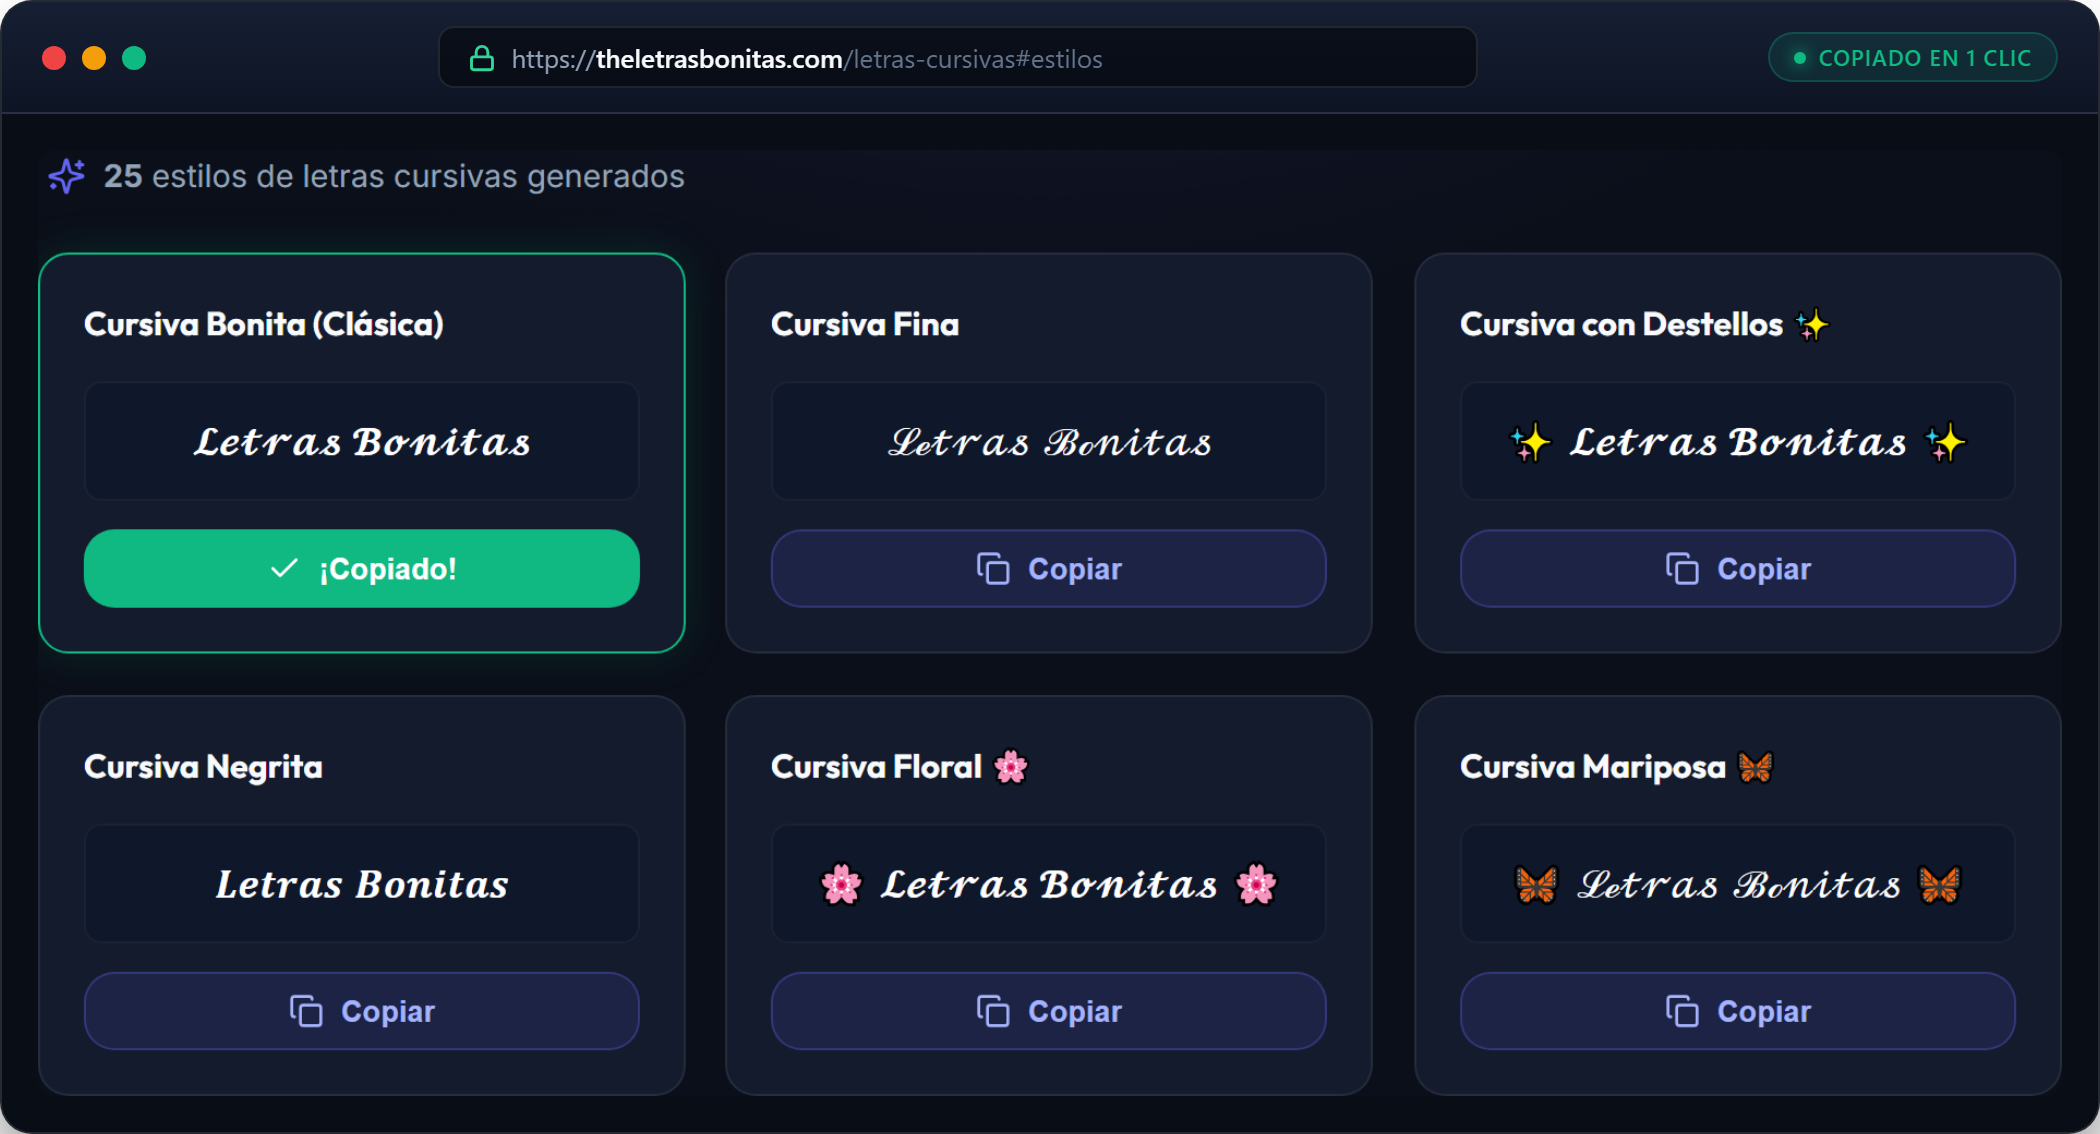
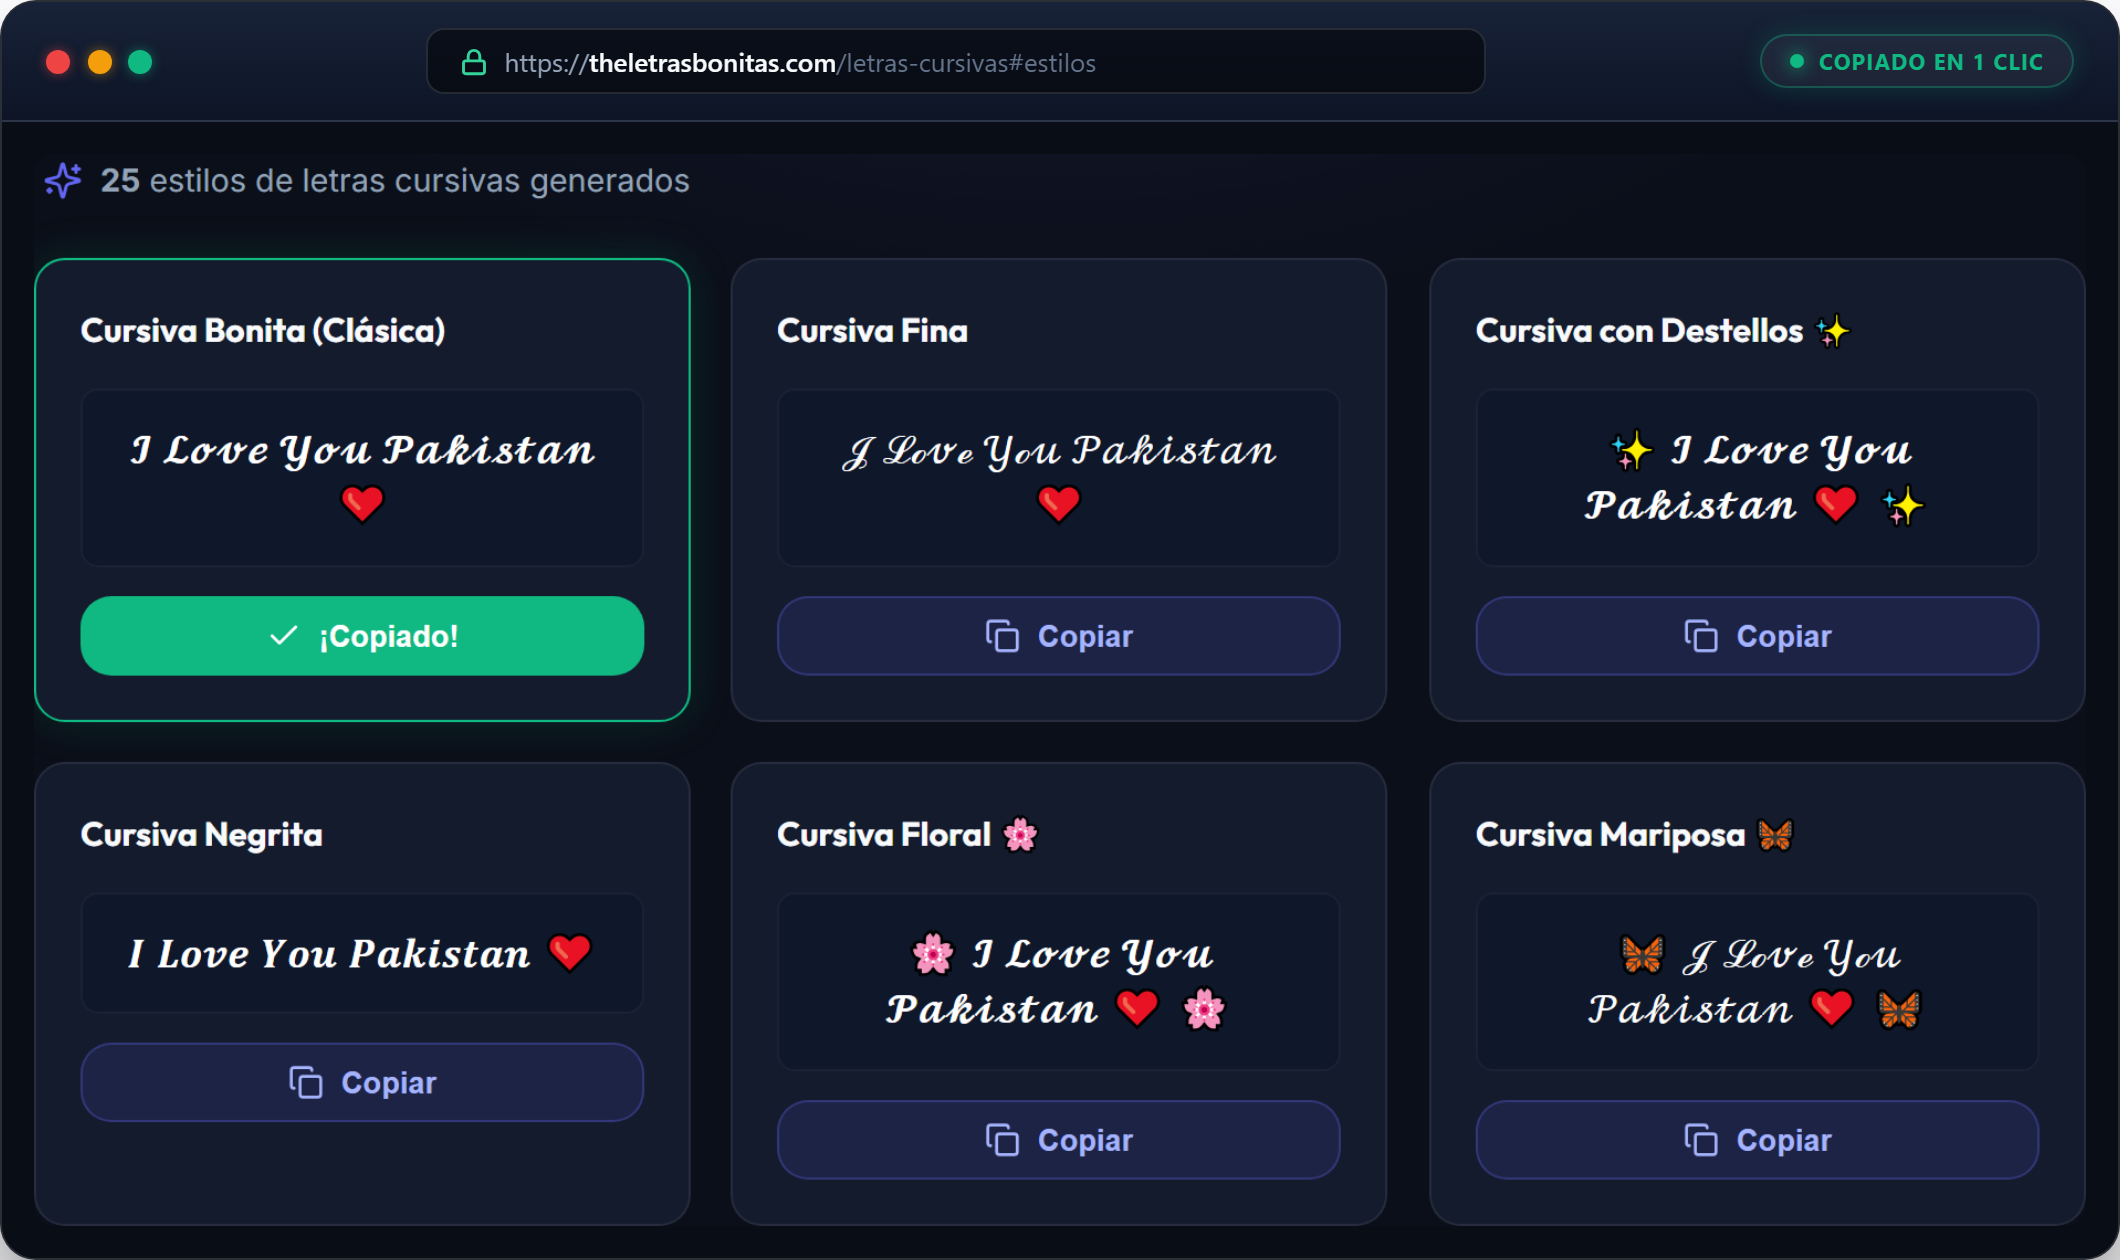
feat(seo): add attractive custom text screenshots to conversor-de-letras and update letras-cursivas

diff --git a/src/app/conversor-de-letras/page.tsx b/src/app/conversor-de-letras/page.tsx
@@ -1,5 +1,6 @@
 import React from 'react';
 import type { Metadata } from 'next';
+import Image from 'next/image';
 import Link from 'next/link';
 import LetterConverter from '@/components/letter-converter/LetterConverter';
 import PopularStylesSection from '@/components/letter-converter/PopularStylesSection';
@@ -274,6 +275,23 @@ export default function ConversorDeLetrasPage() {
               Utilizar un conversor de letras debería ser rápido. No necesitas conocer códigos Unicode ni saber programación.
             </p>
 
+            {/* Real Tool Screenshot 1: Interface & Generator Controls */}
+            <figure className="article-figure">
+              <div className="article-image-container">
+                <Image
+                  src="/images/generador-conversor-letras-interfaz.png"
+                  alt="Captura real del conversor de letras en theletrasbonitas.com mostrando panel de escritura, filtros por categoría y pruebas rápidas"
+                  width={1060}
+                  height={540}
+                  className="article-mockup-image"
+                  priority={false}
+                />
+              </div>
+              <figcaption className="article-figcaption">
+                <strong>Figura 1:</strong> Interfaz interactiva de <span className="text-white font-medium">theletrasbonitas.com/conversor-de-letras</span> con selector de categorías (populares, cursivas, elegantes, negritas, góticas), barra de búsqueda y panel de escritura en tiempo real.
+              </figcaption>
+            </figure>
+
             <StepGuide>
               <StepItem stepNumber={1} title="Escribe o pega tu texto">
                 <p>
@@ -334,6 +352,23 @@ export default function ConversorDeLetrasPage() {
             <p>
               Un buen conversor no debería limitarse a una sola apariencia. Diferentes usuarios buscan diferentes estilos para transmitir distintas emociones.
             </p>
+
+            {/* Real Tool Screenshot 2: Visual Results & Copying Action */}
+            <figure className="article-figure">
+              <div className="article-image-container">
+                <Image
+                  src="/images/copiar-conversor-letras-estilos.png"
+                  alt="Catálogo visual del conversor de letras con estilos en negrita, cursiva e itálica listos para copiar con un clic"
+                  width={1060}
+                  height={580}
+                  className="article-mockup-image"
+                  loading="lazy"
+                />
+              </div>
+              <figcaption className="article-figcaption">
+                <strong>Figura 2:</strong> Catálogo de estilos tipográficos generados en vivo con feedback visual instantáneo de copiado en 1 clic para pegar en Instagram, TikTok o WhatsApp.
+              </figcaption>
+            </figure>
 
             <div style={{ marginTop: '1.25rem' }}>
               <h3>Letras cursivas</h3>
